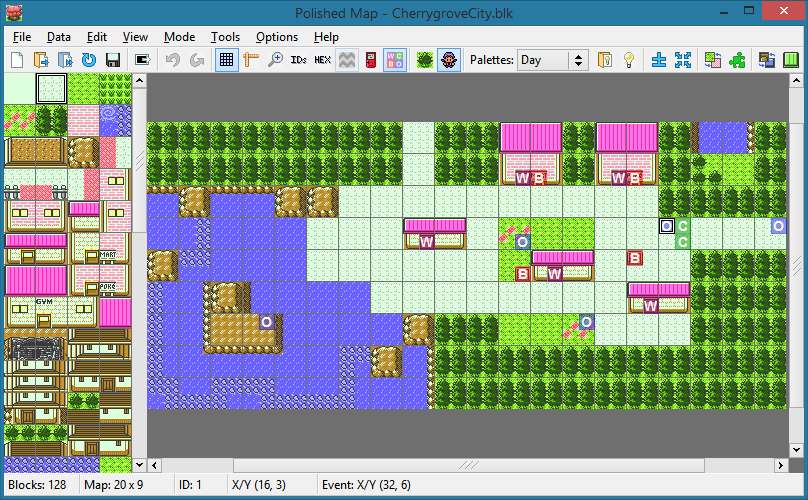
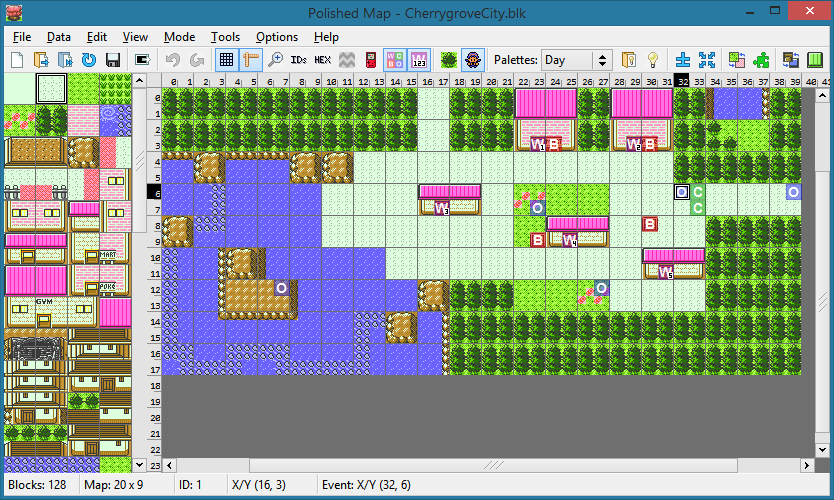
Allow toggling warp IDs from the menu or toolbar

diff --git a/src/main-window.cpp b/src/main-window.cpp
@@ -60,6 +60,7 @@ Main_Window::Main_Window(int x, int y, int w, int h, const char *) : Fl_Overlay_
 	int show_priority_config = Preferences::get("priority", 1);
 	int gameboy_screen_config = Preferences::get("gameboy", 0);
 	int show_events_config = Preferences::get("event", 1);
+	int show_warp_ids_config = Preferences::get("warp-ids", 1);
 	Palettes palettes_config = (Palettes)Preferences::get("palettes", (int)Palettes::DAY);
 
 	int monochrome_config = Preferences::get("monochrome", 0);
@@ -75,10 +76,12 @@ Main_Window::Main_Window(int x, int y, int w, int h, const char *) : Fl_Overlay_
 	int print_ids_config = Preferences::get("print-ids", 0);
 	int print_priority_config = Preferences::get("print-priority", 0);
 	int print_events_config = Preferences::get("print-events", 0);
+	int print_warp_ids_config = Preferences::get("print-warp-ids", 0);
 	Config::print_grid(!!print_grid_config);
 	Config::print_ids(!!print_ids_config);
 	Config::print_priority(!!print_priority_config);
 	Config::print_events(!!print_events_config);
+	Config::print_warp_ids(!!print_warp_ids_config);
 
 	int auto_events_config = Preferences::get("events", 1);
 	int special_palettes_config = Preferences::get("special", 1);
@@ -126,6 +129,7 @@ Main_Window::Main_Window(int x, int y, int w, int h, const char *) : Fl_Overlay_
 	_show_priority_tb = new Toolbar_Toggle_Button(0, 0, 24, 24);
 	_gameboy_screen_tb = new Toolbar_Toggle_Button(0, 0, 24, 24);
 	_show_events_tb = new Toolbar_Toggle_Button(0, 0, 24, 24);
+	_show_warp_ids_tb = new Toolbar_Toggle_Button(0, 0, 24, 24);
 	new Fl_Box(0, 0, 2, 24); new Spacer(0, 0, 2, 24); new Fl_Box(0, 0, 2, 24);
 	_blocks_mode_tb = new Toolbar_Radio_Button(0, 0, 24, 24);
 	_events_mode_tb = new Toolbar_Radio_Button(0, 0, 24, 24);
@@ -355,7 +359,9 @@ Main_Window::Main_Window(int x, int y, int w, int h, const char *) : Fl_Overlay_
 		OS_MENU_ITEM("Game &Boy Screen", FL_COMMAND + 'M', (Fl_Callback *)gameboy_screen_cb, this,
 			FL_MENU_TOGGLE | (gameboy_screen_config ? FL_MENU_VALUE : 0)),
 		OS_MENU_ITEM("Show &Events", FL_COMMAND + 'V', (Fl_Callback *)show_events_cb, this,
-			FL_MENU_TOGGLE | (show_events_config ? FL_MENU_VALUE : 0) | FL_MENU_DIVIDER),
+			FL_MENU_TOGGLE | show_events_config ? FL_MENU_VALUE : 0),
+		OS_MENU_ITEM("Show &Warp IDs", FL_COMMAND + FL_SHIFT + '3', (Fl_Callback *)show_warp_ids_cb, this,
+			FL_MENU_TOGGLE | (show_warp_ids_config ? FL_MENU_VALUE : 0) | FL_MENU_DIVIDER),
 		OS_MENU_ITEM("Pa&lettes", 0, NULL, NULL, FL_SUBMENU | FL_MENU_DIVIDER),
 		OS_MENU_ITEM("&Morn", 0, (Fl_Callback *)morn_palettes_cb, this,
 			FL_MENU_RADIO | (palettes_config == Palettes::MORN ? FL_MENU_VALUE : 0)),
@@ -454,6 +460,7 @@ Main_Window::Main_Window(int x, int y, int w, int h, const char *) : Fl_Overlay_
 	_show_priority_mi = PM_FIND_MENU_ITEM_CB(show_priority_cb);
 	_gameboy_screen_mi = PM_FIND_MENU_ITEM_CB(gameboy_screen_cb);
 	_show_events_mi = PM_FIND_MENU_ITEM_CB(show_events_cb);
+	_show_warp_ids_mi = PM_FIND_MENU_ITEM_CB(show_warp_ids_cb);
 	_transparent_mi = PM_FIND_MENU_ITEM_CB(transparent_cb);
 	_full_screen_mi = PM_FIND_MENU_ITEM_CB(full_screen_cb);
 	_morn_mi = PM_FIND_MENU_ITEM_CB(morn_palettes_cb);
@@ -569,6 +576,7 @@ Main_Window::Main_Window(int x, int y, int w, int h, const char *) : Fl_Overlay_
 	_zoom_tb->tooltip("Zoom (Ctrl+=)");
 	_zoom_tb->callback((Fl_Callback *)zoom_tb_cb, this);
 	_zoom_tb->image(ZOOM_ICON);
+	_zoom_tb->shortcut(FL_COMMAND + '+');
 	_zoom_tb->value(zoom());
 
 	_ids_tb->tooltip("Block IDs (Ctrl+I)");
@@ -579,6 +587,7 @@ Main_Window::Main_Window(int x, int y, int w, int h, const char *) : Fl_Overlay_
 	_hex_tb->tooltip("Hexadecimal (Ctrl+$)");
 	_hex_tb->callback((Fl_Callback *)hex_tb_cb, this);
 	_hex_tb->image(HEX_ICON);
+	_hex_tb->shortcut(FL_COMMAND + '$');
 	_hex_tb->value(hex());
 
 	_show_priority_tb->tooltip("Show Priority (Ctrl+Shift+P)");
@@ -595,6 +604,12 @@ Main_Window::Main_Window(int x, int y, int w, int h, const char *) : Fl_Overlay_
 	_show_events_tb->callback((Fl_Callback *)show_events_tb_cb, this);
 	_show_events_tb->image(SHOW_ICON);
 	_show_events_tb->value(show_events());
+
+	_show_warp_ids_tb->tooltip("Show Warp IDs (Ctrl+#)");
+	_show_warp_ids_tb->callback((Fl_Callback *)show_warp_ids_tb_cb, this);
+	_show_warp_ids_tb->image(WARP_ICON);
+	_show_warp_ids_tb->shortcut(FL_COMMAND + '#');
+	_show_warp_ids_tb->value(show_warp_ids());
 
 	_blocks_mode_tb->tooltip("Blocks Mode (Ctrl+Shift+B)");
 	_blocks_mode_tb->callback((Fl_Callback *)blocks_mode_tb_cb, this);
@@ -687,6 +702,7 @@ Main_Window::Main_Window(int x, int y, int w, int h, const char *) : Fl_Overlay_
 	_print_options_dialog->ids(Config::print_ids());
 	_print_options_dialog->priority(Config::print_priority());
 	_print_options_dialog->events(Config::print_events());
+	_print_options_dialog->warp_ids(Config::print_warp_ids());
 
 	std::string subject(PROGRAM_NAME " " PROGRAM_VERSION_STRING), message(
 		"Copyright \xc2\xa9 " CURRENT_YEAR " " PROGRAM_AUTHOR ".\n"
@@ -2208,7 +2224,7 @@ void Main_Window::print_map() {
 		size_t ne = _map_events.size();
 		for (size_t i = 0; i < ne; i++) {
 			Event *e = _map_events.event(i);
-			e->print();
+			e->print(Config::print_warp_ids());
 		}
 	}
 }
@@ -2253,6 +2269,7 @@ void Main_Window::update_icons() {
 	Image::make_deimage(_show_priority_tb);
 	Image::make_deimage(_gameboy_screen_tb);
 	Image::make_deimage(_show_events_tb);
+	Image::make_deimage(_show_warp_ids_tb);
 	Image::make_deimage(_blocks_mode_tb);
 	Image::make_deimage(_events_mode_tb);
 	Image::make_deimage(_add_sub_tb);
@@ -2708,6 +2725,7 @@ void Main_Window::print_cb(Fl_Widget *, Main_Window *mw) {
 	Config::print_ids(mw->_print_options_dialog->ids());
 	Config::print_priority(mw->_print_options_dialog->priority());
 	Config::print_events(mw->_print_options_dialog->events());
+	Config::print_warp_ids(mw->_print_options_dialog->warp_ids());
 	if (mw->_print_options_dialog->canceled()) { return; }
 
 	int w = (int)mw->_map.width() * METATILE_PX_SIZE, h = (int)mw->_map.height() * METATILE_PX_SIZE;
@@ -2844,6 +2862,7 @@ void Main_Window::exit_cb(Fl_Widget *, Main_Window *mw) {
 	Preferences::set("priority", mw->show_priority());
 	Preferences::set("gameboy", mw->gameboy_screen());
 	Preferences::set("event", mw->show_events());
+	Preferences::set("warp-ids", mw->show_warp_ids());
 	Preferences::set("transparent", mw->transparent());
 	Preferences::set("palettes", (int)mw->palettes());
 	Preferences::set("monochrome", mw->monochrome());
@@ -2859,6 +2878,7 @@ void Main_Window::exit_cb(Fl_Widget *, Main_Window *mw) {
 	Preferences::set("print-ids", Config::print_ids());
 	Preferences::set("print-priority", Config::print_priority());
 	Preferences::set("print-events", Config::print_events());
+	Preferences::set("print-warp-ids", Config::print_warp_ids());
 	for (int i = 0; i < NUM_RECENT; i++) {
 		Preferences::set_string(Fl_Preferences::Name("recent%d", i), mw->_recent[i]);
 	}
@@ -3060,6 +3080,12 @@ void Main_Window::show_events_cb(Fl_Menu_ *m, Main_Window *mw) {
 	mw->redraw();
 }
 
+void Main_Window::show_warp_ids_cb(Fl_Menu_ *m, Main_Window *mw) {
+	SYNC_TB_WITH_M(mw->_show_warp_ids_tb, m);
+	mw->update_labels();
+	mw->redraw();
+}
+
 #undef SYNC_TB_WITH_M
 
 #define SYNC_MI_WITH_TB(tb, mi) if (tb->value()) mi->set(); else mi->clear()
@@ -3106,6 +3132,12 @@ void Main_Window::gameboy_screen_tb_cb(Toolbar_Toggle_Button *, Main_Window *mw)
 
 void Main_Window::show_events_tb_cb(Toolbar_Toggle_Button *, Main_Window *mw) {
 	SYNC_MI_WITH_TB(mw->_show_events_tb, mw->_show_events_mi);
+	mw->update_labels();
+	mw->redraw();
+}
+
+void Main_Window::show_warp_ids_tb_cb(Toolbar_Toggle_Button *, Main_Window *mw) {
+	SYNC_MI_WITH_TB(mw->_show_warp_ids_tb, mw->_show_warp_ids_mi);
 	mw->update_labels();
 	mw->redraw();
 }

diff --git a/src/main-window.h b/src/main-window.h
@@ -49,7 +49,8 @@ private:
 		*_greybird_theme_mi = NULL, *_ocean_theme_mi = NULL, *_blue_theme_mi = NULL, *_olive_theme_mi = NULL,
 		*_rose_gold_theme_mi = NULL, *_dark_theme_mi = NULL, *_brushed_metal_theme_mi = NULL, *_high_contrast_theme_mi = NULL;
 	Fl_Menu_Item *_grid_mi = NULL, *_rulers_mi, *_zoom_mi = NULL, *_ids_mi = NULL, *_hex_mi = NULL, *_show_priority_mi = NULL,
-		*_gameboy_screen_mi = NULL, *_show_events_mi = NULL, *_transparent_mi = NULL, *_full_screen_mi = NULL;
+		*_gameboy_screen_mi = NULL, *_show_events_mi = NULL, *_show_warp_ids_mi = NULL, *_transparent_mi = NULL,
+		*_full_screen_mi = NULL;
 	Fl_Menu_Item *_morn_mi = NULL, *_day_mi = NULL, *_night_mi = NULL, *_darkness_mi = NULL, *_indoor_mi = NULL,
 		*_custom_mi = NULL;
 	Fl_Menu_Item *_blocks_mode_mi = NULL, *_events_mode_mi = NULL;
@@ -60,8 +61,8 @@ private:
 	Toolbar_Button *_new_tb, *_open_tb, *_load_event_script_tb, *_reload_event_script_tb, *_save_tb, *_print_tb,
 		*_undo_tb, *_redo_tb, *_add_sub_tb, *_resize_tb, *_change_tileset_tb, *_change_roof_tb, *_edit_tileset_tb,
 		*_edit_roof_tb, *_load_palettes_tb, *_edit_current_palettes_tb;
-	Toolbar_Toggle_Button *_grid_tb, *_rulers_tb, *_zoom_tb, *_ids_tb, *_hex_tb, *_show_events_tb, *_show_priority_tb,
-		*_gameboy_screen_tb;
+	Toolbar_Toggle_Button *_grid_tb, *_rulers_tb, *_zoom_tb, *_ids_tb, *_hex_tb, *_show_events_tb, *_show_warp_ids_tb,
+		*_show_priority_tb, *_gameboy_screen_tb;
 	Toolbar_Radio_Button *_blocks_mode_tb, *_events_mode_tb;
 	Dropdown *_palettes;
 	// GUI outputs
@@ -134,6 +135,7 @@ public:
 	inline bool show_priority(void) const { return _show_priority_mi && !!_show_priority_mi->value(); }
 	inline bool gameboy_screen(void) const { return _gameboy_screen_mi && !!_gameboy_screen_mi->value(); }
 	inline bool show_events(void) const { return _show_events_mi && !!_show_events_mi->value(); }
+	inline bool show_warp_ids(void) const { return _show_warp_ids_mi && !!_show_warp_ids_mi->value(); }
 	inline bool full_screen(void) const { return _full_screen_mi && !!_full_screen_mi->value(); }
 	inline Palettes palettes(void) const { return (Palettes)_palettes->value(); }
 	inline Mode mode(void) const { return _mode; }
@@ -261,6 +263,7 @@ private:
 	static void show_priority_cb(Fl_Menu_ *m, Main_Window *mw);
 	static void gameboy_screen_cb(Fl_Menu_ *m, Main_Window *mw);
 	static void show_events_cb(Fl_Menu_ *m, Main_Window *mw);
+	static void show_warp_ids_cb(Fl_Menu_ *m, Main_Window *mw);
 	static void transparent_cb(Fl_Menu_ *m, Main_Window *mw);
 	static void morn_palettes_cb(Fl_Menu_ *m, Main_Window *mw);
 	static void day_palettes_cb(Fl_Menu_ *m, Main_Window *mw);
@@ -304,6 +307,7 @@ private:
 	static void show_priority_tb_cb(Toolbar_Toggle_Button *tb, Main_Window *mw);
 	static void gameboy_screen_tb_cb(Toolbar_Toggle_Button *tb, Main_Window *mw);
 	static void show_events_tb_cb(Toolbar_Toggle_Button *tb, Main_Window *mw);
+	static void show_warp_ids_tb_cb(Toolbar_Toggle_Button *tb, Main_Window *mw);
 	static void palettes_cb(Dropdown *dd, Main_Window *mw);
 	static void blocks_mode_tb_cb(Toolbar_Radio_Button *tb, Main_Window *mw);
 	static void events_mode_tb_cb(Toolbar_Radio_Button *tb, Main_Window *mw);

diff --git a/src/event.cpp b/src/event.cpp
@@ -280,26 +280,25 @@ void Event::update_tooltip() {
 	tip(ss.str());
 }
 
-void Event::draw_warp_id() const {
-	int X = x(), Y = y();
+void Event::draw_warp_id(int x, int y) const {
 	if (_hex_coords) {
-		warp_digits_image.draw(X+10, Y+8, 5, 7, 5 * (_warp_id % 0x10), 0);
+		warp_digits_image.draw(x+10, y+8, 5, 7, 5 * (_warp_id % 0x10), 0);
 		if (_warp_id >= 0x10) {
-			warp_digits_image.draw(X+6, Y+8, 5, 7, 5 * ((_warp_id / 0x10) % 0x10), 0);
+			warp_digits_image.draw(x+6, y+8, 5, 7, 5 * ((_warp_id / 0x10) % 0x10), 0);
 		}
 	}
 	else {
-		warp_digits_image.draw(X+10, Y+8, 5, 7, 5 * (_warp_id % 10), 0);
+		warp_digits_image.draw(x+10, y+8, 5, 7, 5 * (_warp_id % 10), 0);
 		if (_warp_id >= 10) {
-			warp_digits_image.draw(X+6, Y+8, 5, 7, 5 * ((_warp_id / 10) % 10), 0);
+			warp_digits_image.draw(x+6, y+8, 5, 7, 5 * ((_warp_id / 10) % 10), 0);
 			if (_warp_id >= 100) {
-				warp_digits_image.draw(X+2, Y+8, 5, 7, 5 * ((_warp_id / 100) % 10), 0);
+				warp_digits_image.draw(x+2, y+8, 5, 7, 5 * ((_warp_id / 100) % 10), 0);
 			}
 		}
 	}
 }
 
-void Event::draw_warp_id_zoomed() const {
+void Event::draw_warp_id_zoomed(int x, int y) const {
 	fl_font(FL_COURIER, OS::is_consolas() ? 12 : 11);
 	char warp_id[4] = {};
 #if defined(_MSC_VER) && _MSC_VER < 1900
@@ -307,7 +306,7 @@ void Event::draw_warp_id_zoomed() const {
 #else
 	snprintf(warp_id, sizeof(warp_id), _hex_coords ? "%X" : "%d", _warp_id);
 #endif
-	draw_outlined_text(warp_id, x()-4, y()-2, w(), h(), FL_ALIGN_BOTTOM_RIGHT | FL_ALIGN_INSIDE, FL_BLACK, FL_WHITE);
+	draw_outlined_text(warp_id, x-4, y-2, w(), h(), FL_ALIGN_BOTTOM_RIGHT | FL_ALIGN_INSIDE, FL_BLACK, FL_WHITE);
 }
 
 void Event::draw() {
@@ -322,12 +321,12 @@ void Event::draw() {
 	fl_color(FL_WHITE);
 	char buffer[] = {_meta.symbol, '\0'};
 	fl_draw(buffer, X, Y, W, H, FL_ALIGN_CENTER);
-	if (_warp_id > 0) {
+	if (_warp_id > 0 && mw->show_warp_ids()) {
 		if (zoom) {
-			draw_warp_id_zoomed();
+			draw_warp_id_zoomed(X, Y);
 		}
 		else {
-			draw_warp_id();
+			draw_warp_id(X, Y);
 		}
 	}
 	fl_font(OS_FONT, OS_FONT_SIZE);
@@ -344,15 +343,15 @@ void Event::draw() {
 	}
 }
 
-void Event::print() const {
+void Event::print(bool print_warp_ids) const {
 	int X = (int)_event_x * EVENT_PX_SIZE, Y = (int)_event_y * EVENT_PX_SIZE;
 	texture_images[(int)_meta.texture].draw(X, Y, EVENT_PX_SIZE, EVENT_PX_SIZE);
 	fl_font(FL_HELVETICA_BOLD, 14);
 	fl_color(FL_WHITE);
 	char buffer[] = {_meta.symbol, '\0'};
 	fl_draw(buffer, X, Y, EVENT_PX_SIZE, EVENT_PX_SIZE, FL_ALIGN_CENTER);
-	if (_warp_id > 0) {
-		draw_warp_id();
+	if (_warp_id > 0 && print_warp_ids) {
+		draw_warp_id(X, Y);
 	}
 	fl_font(OS_FONT, OS_FONT_SIZE);
 }

diff --git a/src/option-dialogs.cpp b/src/option-dialogs.cpp
@@ -1121,8 +1121,8 @@ int Event_Options_Dialog::refresh_content(int ww, int dy) {
 }
 
 Print_Options_Dialog::Print_Options_Dialog(const char *t) : _title(t), _copied(false), _canceled(false), _dialog(NULL),
-	_show_heading(NULL), _grid(NULL), _ids(NULL), _priority(NULL), _events(NULL), _export_button(NULL), _copy_button(NULL),
-	_cancel_button(NULL) {}
+	_show_heading(NULL), _grid(NULL), _ids(NULL), _priority(NULL), _events(NULL), _warp_ids(NULL), _export_button(NULL),
+	_copy_button(NULL), _cancel_button(NULL) {}
 
 Print_Options_Dialog::~Print_Options_Dialog() {
 	delete _dialog;
@@ -1131,6 +1131,7 @@ Print_Options_Dialog::~Print_Options_Dialog() {
 	delete _ids;
 	delete _priority;
 	delete _events;
+	delete _warp_ids;
 	delete _export_button;
 	delete _copy_button;
 	delete _cancel_button;
@@ -1147,6 +1148,7 @@ void Print_Options_Dialog::initialize() {
 	_ids = new OS_Check_Button(0, 0, 0, 0, "IDs");
 	_priority = new OS_Check_Button(0, 0, 0, 0, "Priority");
 	_events = new OS_Check_Button(0, 0, 0, 0, "Events");
+	_warp_ids = new OS_Check_Button(0, 0, 0, 0, "Warp IDs");
 	_export_button = new Default_Button(0, 0, 0, 0, "Export...");
 	_copy_button = new OS_Button(0, 0, 0, 0, "Copy");
 	_cancel_button = new OS_Button(0, 0, 0, 0, "Cancel");
@@ -1189,7 +1191,10 @@ void Print_Options_Dialog::refresh() {
 	dx += _priority->w() + wgt_m;
 	wgt_w = text_width(_events->label(), 2) + wgt_h;
 	_events->resize(dx, dy, wgt_w, wgt_h);
-	dx += _events->w() + win_m;
+	dx += _events->w() + wgt_m;
+	wgt_w = text_width(_warp_ids->label(), 2) + wgt_h;
+	_warp_ids->resize(dx, dy, wgt_w, wgt_h);
+	dx += _warp_ids->w() + win_m;
 	if (dx < 288) { dx = 288; }
 	dy += wgt_h + 16;
 #ifdef _WIN32

diff --git a/src/config.h b/src/config.h
@@ -6,12 +6,11 @@
 class Config {
 private:
 	static bool _monochrome, _priority, _256_tiles, _drag_and_drop;
-	static bool _print_grid, _print_ids, _print_priority, _print_events;
+	static bool _print_grid, _print_ids, _print_priority, _print_events, _print_warp_ids;
 	static size_t _overworld_map_size;
 public:
 	static void gfx_tileset_dir(char *dest, const char *root);
 	static void gfx_roof_dir(char *dest, const char *root);
-	static const char *palette_macro(void);
 	static bool project_path_from_blk_path(const char *blk_path, char *project_path);
 	static void palette_map_path(char *dest, const char *root, const char *tileset);
 	static void tileset_path(char *dest, const char *root, const char *tileset);
@@ -46,6 +45,8 @@ public:
 	inline static void print_priority(bool p) { _print_priority = p; }
 	inline static bool print_events(void) { return _print_events; }
 	inline static void print_events(bool p) { _print_events = p; }
+	inline static bool print_warp_ids(void) { return _print_warp_ids; }
+	inline static void print_warp_ids(bool p) { _print_warp_ids = p; }
 	inline static size_t overworld_map_size(void) { return _overworld_map_size; }
 	inline static void overworld_map_size(size_t s) { _overworld_map_size = s; }
 };

diff --git a/src/option-dialogs.h b/src/option-dialogs.h
@@ -189,7 +189,7 @@ private:
 	bool _copied, _canceled;
 	Fl_Double_Window *_dialog;
 	Label *_show_heading;
-	OS_Check_Button *_grid, *_ids, *_priority, *_events;
+	OS_Check_Button *_grid, *_ids, *_priority, *_events, *_warp_ids;
 	Default_Button *_export_button;
 	OS_Button *_copy_button, *_cancel_button;
 public:
@@ -207,6 +207,8 @@ public:
 	inline void priority(bool p) { initialize(); _priority->value(p); }
 	inline bool events(void) const { return !!_events->value(); }
 	inline void events(bool e) { initialize(); _events->value(e); }
+	inline bool warp_ids(void) const { return !!_warp_ids->value(); }
+	inline void warp_ids(bool w) { initialize(); _warp_ids->value(w); }
 private:
 	void initialize(void);
 	void refresh(void);

diff --git a/src/config.cpp b/src/config.cpp
@@ -9,7 +9,8 @@
 #include "config.h"
 
 bool Config::_monochrome = false, Config::_priority = false, Config::_256_tiles = false, Config::_drag_and_drop = true;
-bool Config::_print_grid = false, Config::_print_ids = false, Config::_print_priority = false, Config::_print_events = false;
+bool Config::_print_grid = false, Config::_print_ids = false, Config::_print_priority = false, Config::_print_events = false,
+	Config::_print_warp_ids = false;
 
 // wOverworldMapBlocks (aka OverworldMap or wOverworldMap) buffer size in WRAM
 size_t Config::_overworld_map_size = 1300;

diff --git a/src/icons.h b/src/icons.h
@@ -23,6 +23,7 @@
 #include "hex.xpm"
 #include "hex-dark.xpm"
 #include "show.xpm"
+#include "warp.xpm"
 #include "priority.xpm"
 #include "gameboy.xpm"
 #include "blocks.xpm"
@@ -65,6 +66,7 @@ static Fl_Pixmap IDS_DARK_ICON(IDS_DARK_XPM);
 static Fl_Pixmap HEX_ICON(HEX_XPM);
 static Fl_Pixmap HEX_DARK_ICON(HEX_DARK_XPM);
 static Fl_Pixmap SHOW_ICON(SHOW_XPM);
+static Fl_Pixmap WARP_ICON(WARP_XPM);
 static Fl_Pixmap PRIORITY_ICON(PRIORITY_XPM);
 static Fl_Pixmap GAMEBOY_ICON(GAMEBOY_XPM);
 static Fl_Pixmap BLOCKS_ICON(BLOCKS_XPM);

diff --git a/src/event.h b/src/event.h
@@ -57,11 +57,11 @@ public:
 	void parse(std::istringstream &lss);
 	void update_tooltip(void);
 	void draw(void);
-	void print(void) const;
+	void print(bool print_warp_ids) const;
 	int handle(int event);
 private:
-	void draw_warp_id(void) const;
-	void draw_warp_id_zoomed(void) const;
+	void draw_warp_id(int x, int y) const;
+	void draw_warp_id_zoomed(int x, int y) const;
 };
 
 #endif
